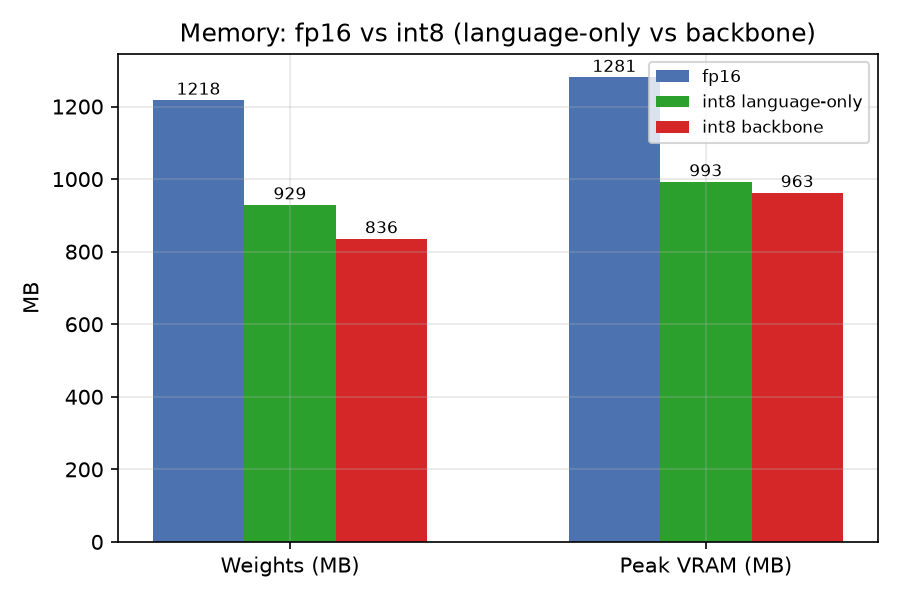
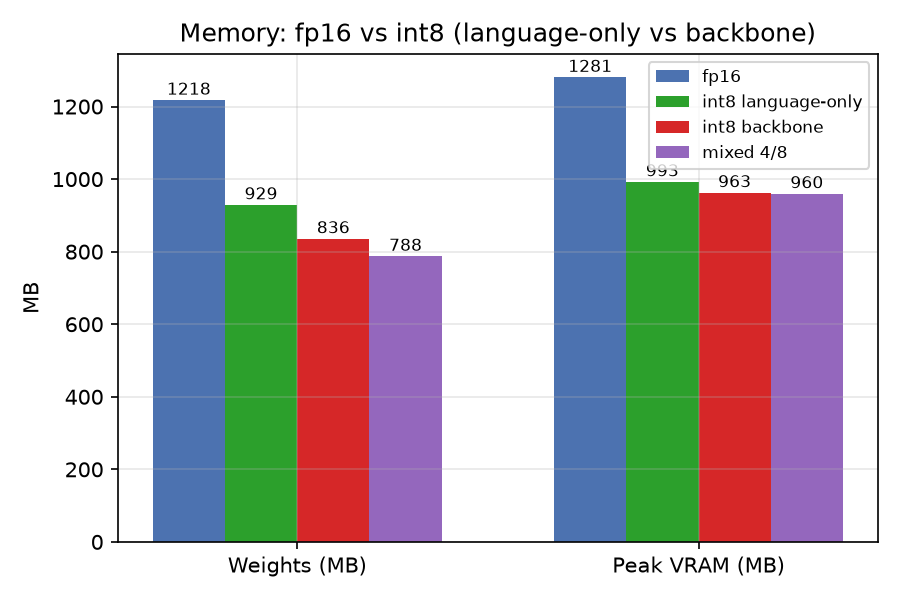
evidence: add mixed-precision quantization result (4-bit vision/connector + 8-bit text)

Changed region(s): [[0.5911, 0.09, 0.9644, 0.96], [0.1867, 0.12, 0.4978, 0.9], [0.2489, 0.93, 0.4044, 0.96]]

diff --git a/evidence/latest/pc_local/int4/README.md b/evidence/latest/pc_local/int4/README.md
@@ -23,6 +23,7 @@
 | int8 语言-only | 2 | 80.0% |
 | int8 全背干 | 10 | 78.0% |
 | int8 全背干 | 2 | 78.0% |
+| mixed（v4 c4 t8） | 2 | 76.0% |
 
 单集冒烟（1 集/任务）：int4 全背干 30%、int4 语言-only 10%、int8 语言-only 100%。
 
@@ -36,12 +37,14 @@
 | fp16 | 2 | 144.6 | 189.4 | 1217.9 | 1280.8 |
 | int8 语言-only | 2 | 133.3 | 149.2 | 929.4 | 992.9 |
 | int8 全背干 | 2 | 142.9 | 148.5 | 835.9 | 962.8 |
+| mixed（v4 c4 t8） | 2 | 179.2 | 225.3 | 787.5 | 960.1 |
 
 ## 结论
 
 1. 均匀 4-bit PTQ 对 SmolVLA 不成立：全背干 30%、语言-only 10%（单集冒烟）。
 2. int8 两种范围都保住并略提升成功率（78-80% vs fp16 72%）。语言-only：权重内存 −23.7%、峰值显存 −22.5%、延迟略降；全背干：权重内存 −31.4%、峰值显存 −24.8%，ns10 延迟略升、ns2 基本持平。
 3. num_steps=2 与 int8 正交叠加，形成“少步数 × 8-bit 量化”的组合最优；报告可进一步讨论“语言-only 换速度 vs 全背干换内存”的消融权衡。
+4. 混合精度（vision 4bit + connector 4bit + text 8bit）可行：ns2 成功率 76%（vs fp16 72%），权重内存 −35.3%，但延迟升到 179ms（4bit 反量化开销）。说明 text transformer 是 4-bit 敏感点，vision/connector 可降 4-bit。
 
 ## 数据文件
 

diff --git a/evidence/latest/CURRENT_PROGRESS.md b/evidence/latest/CURRENT_PROGRESS.md
@@ -41,6 +41,7 @@ This folder is the only retained experiment evidence for the current project dir
 - Negative result: uniform 4-bit PTQ degrades success (backbone 30%, language-only 10%, single-ep smoke).
 - Memory: language-only weights -23.7% / peak -22.5%; backbone weights -31.4% / peak -24.8%.
 - Latency: language-only is slightly faster than fp16; backbone is comparable at ns2 and slightly slower at ns10.
+- Mixed precision (vision 4-bit + connector 4-bit + text 8-bit): ns2 76.0%, weights -35.3%, latency 179ms (slower than int8 due to 4-bit dequant overhead).
 - Records: `pc_local/int4/quant_summary.csv`, `quant_bench.csv`, and figures.
 
 ## Retained Operational Path
